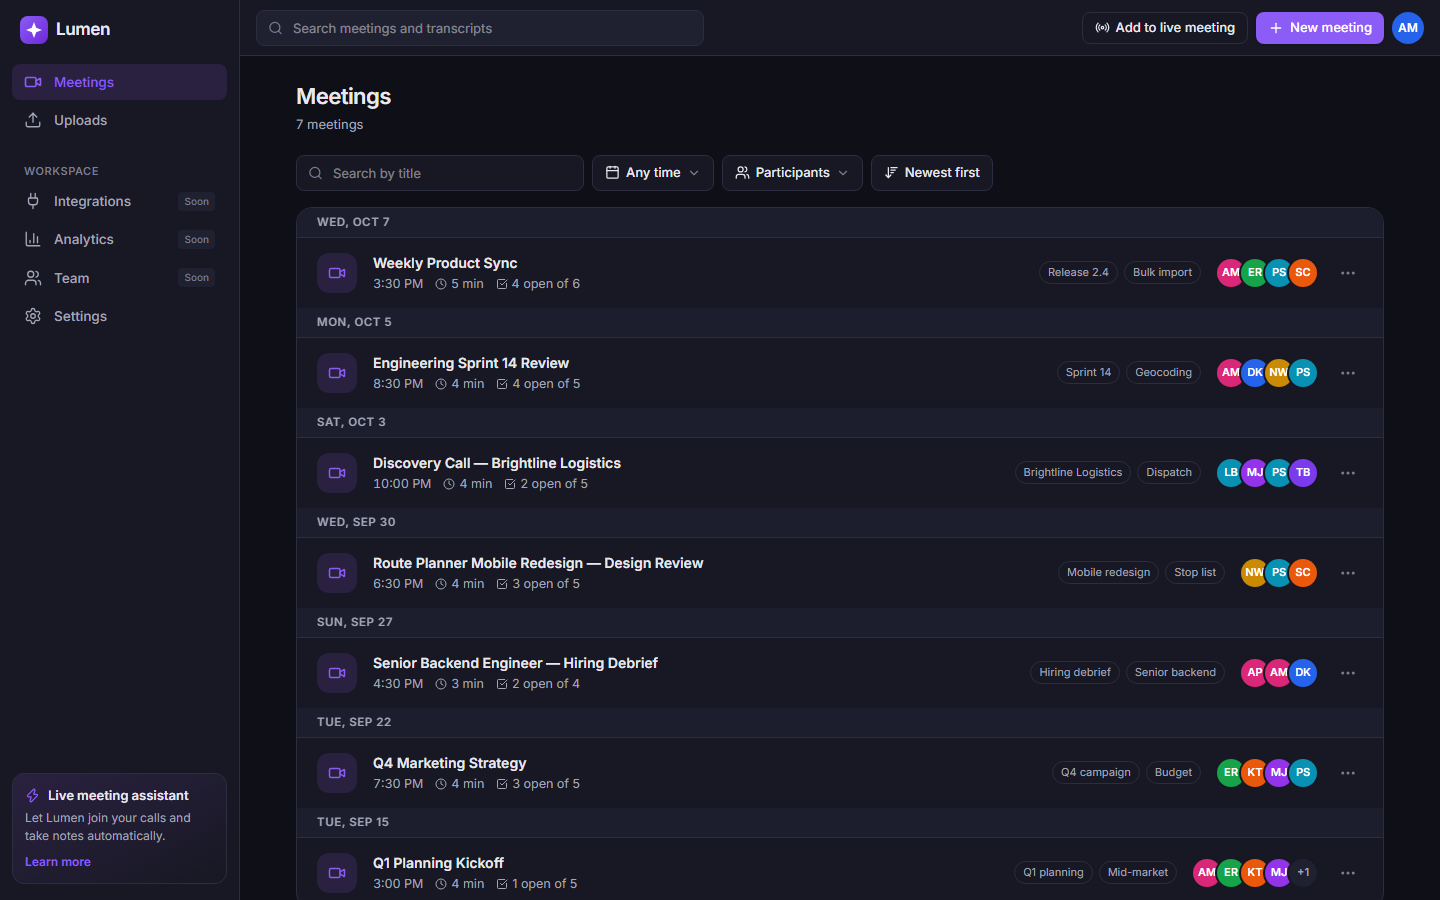
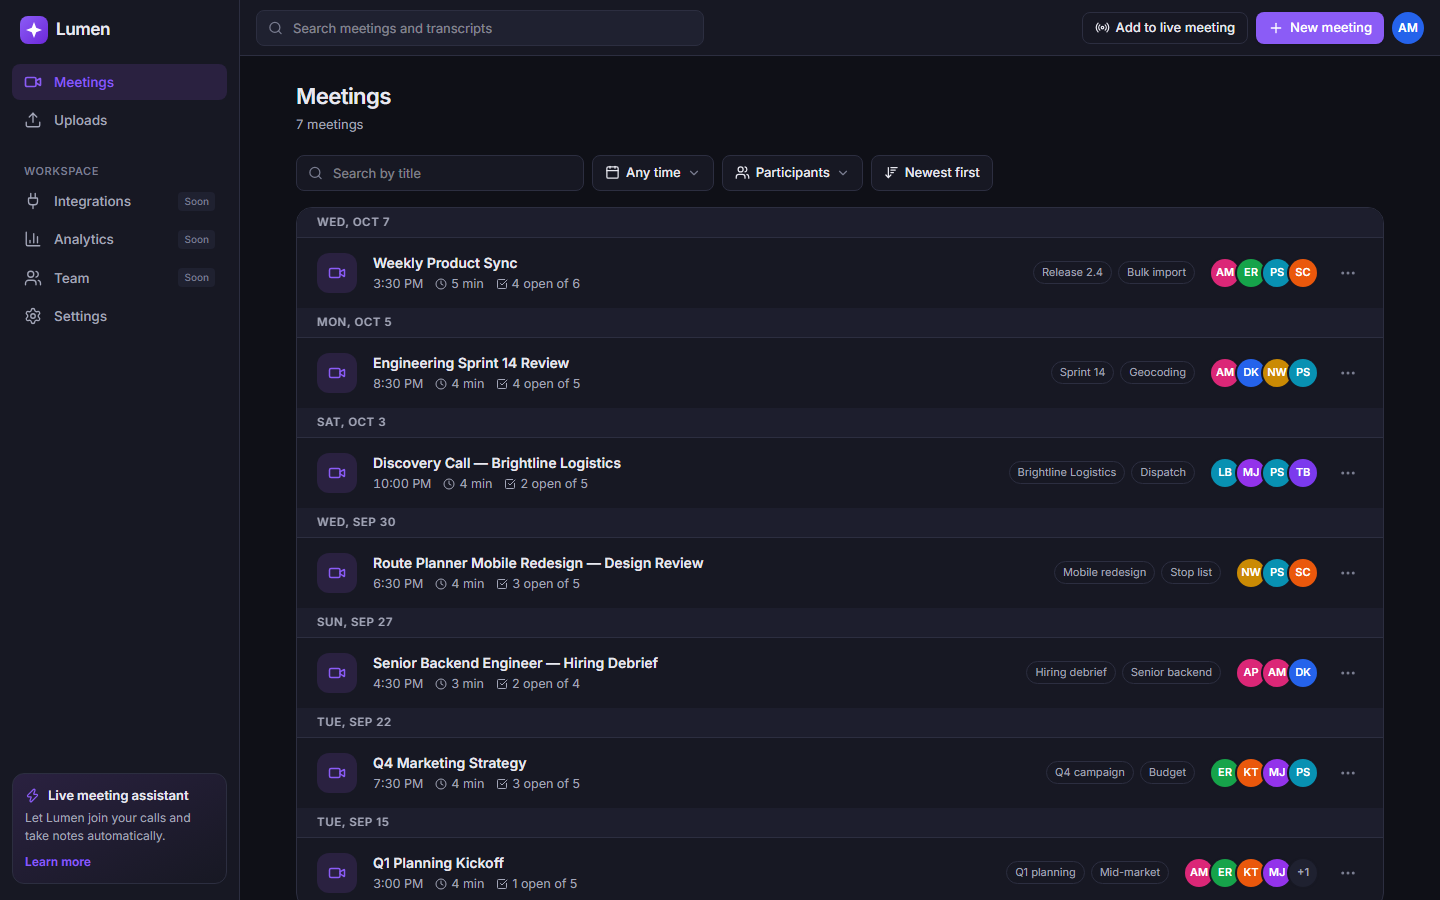
docs: record UI fidelity audit and refresh screenshots
Adds docs/UI_FIDELITY_AUDIT.md (two visual QA passes, findings and
fixes), marks every MUST row VERIFIED with its evidence, and re-captures
the README screenshots from a production build.

diff --git a/docs/UI_FIDELITY_AUDIT.md b/docs/UI_FIDELITY_AUDIT.md
@@ -1,0 +1,62 @@
+# UI Fidelity Audit
+
+How closely the UI follows the Fireflies meeting workspace, checked against screenshots of the running app.
+
+**Reference:**
+- The public Fireflies site and its help-centre articles on the Notepad and meeting summaries (links in
+  [UI_DESIGN_SPEC.md](UI_DESIGN_SPEC.md) §10).
+- Fireflies was used only as a visual and UX reference: no source code, assets or logos were copied, and the product
+  has its own name, "Lumen".
+
+**Method:**
+- A Playwright script captured the same ten screens each pass at 1440×900 and 390×844: library, row hover,
+  workspace while playing, transcript search, meeting menu, new-meeting dialog, settings, empty library, not-found
+  and phone workspace.
+- Pass 2 added dark-mode captures and the expanded-panel views.
+
+## What matches the Fireflies experience
+
+| Area | Fireflies pattern | Here |
+|------|-------------------|------|
+| Navigation | Left sidebar with an active item in the brand colour; a top bar with global search, a live-meeting call-to-action, "New" and an avatar | Same structure. Out-of-scope items are marked "Soon" and open Coming-soon dialogs |
+| Library | Meetings grouped by day; rows with title, time, duration and participant avatars; overflow menu | Day groups, a time · duration · open-tasks line, AI keyword chips, an avatar stack and a ⋯ menu (edit, delete) |
+| Workspace | Notepad: AI notes on one side, transcript on the other, docked player | Notes on the left (keywords → overview → outline → action items by assignee → talk time), transcript on the right, docked player with a speaker timeline and speed control |
+| Transcript | Coloured speaker avatars, name with timestamp, click to play from a line, find-in-transcript | Same, plus an active-line highlight, auto-follow with a "Back to current" button, and a match counter with ↑/↓ |
+| Feedback | Toasts for actions; clear processing state | Toasts for every mutation and failure; "Generating notes…", "Notes ready" and "Failed + Retry" chips |
+| Panels | Notes and transcript can each be focused | Expand / restore button in each panel header (desktop); tabs on phones |
+| Theme | Light and dark | Appearance settings: System / Light / Dark |
+
+## Pass 1: layout and information hierarchy
+
+| # | Finding | Fix |
+|---|---------|-----|
+| 1 | Transcript lines put the timestamp inline before the text, so wrapped lines hung under the speaker name and the time was hard to scan | Speaker name and time now share one row and the text sits below, as in Fireflies. Continuation lines by the same speaker show their time in the left gutter |
+| 2 | Panels could not be expanded (the one open item on the UI checklist) | Desktop focus mode: **Expand notes** / **Expand transcript** / **Show both panels**. Sync, search and seeking keep working while a panel is expanded (E2E) |
+| 3 | Avatar stacks overlapped so far that initials were clipped | Less overlap; the 2 px surface ring is kept |
+| 4 | On phones the meeting header wrapped its date, duration and participant count over several lines | The meta items no longer wrap internally, the participant count shows only from `sm` up (the avatars remain), the Share button is icon-only on phones, and long titles clamp to two lines |
+| 5 | The theme could only be toggled from the account menu, and there was no "System" option | Settings → **Appearance** with System / Light / Dark. System follows OS changes live. The menu toggle stays as a shortcut |
+
+## Pass 2: spacing, typography, controls and states
+
+| # | Finding | Fix |
+|---|---------|-----|
+| 6 | The notes and transcript header bars had slightly different heights, so their bottom borders did not line up | Both are now a fixed `h-14` |
+| 7 | On phones the transcript panel repeated "Transcript" directly under the "Transcript" tab | The panel title is hidden below `lg`; the search box takes the row |
+| 8 | The "System" theme card's hint wrapped onto a third line | Shorter hint ("Follow device") |
+| 9 | Dark mode: checked keyword chips, outline timestamps, status chips, highlights and the expanded notes for contrast | No changes needed. Text tokens meet WCAG AA against their surfaces |
+| 10 | States: empty library ("No meetings match your filters" + Clear filters), not-found meeting, loading skeletons, failed notes with Retry | Reviewed. Each already had a clear next action; no changes |
+
+## Known differences (accepted)
+
+- **No real audio or video.** The player is a simulated clock behind the `PlaybackClock` interface, which the PDF
+  allows. An info tooltip in the player says so.
+- **No Fireflies-only features:** AskFred, soundbites, comments and integrations are out of scope. Bonus B1 and B5
+  were deliberately deferred.
+- **Brand colour and logo are original.** The layout follows Fireflies; the visual identity does not copy it.
+
+## Verification
+
+- E2E tests cover the expanded panels, the theme options (including System following the OS live and the choice
+  surviving a reload), speaker names and timestamps on transcript lines, and phone-width layout
+  with no horizontal scroll.
+- README screenshots were re-captured after pass 2.

diff --git a/docs/BONUS_FEATURES.md b/docs/BONUS_FEATURES.md
@@ -6,7 +6,7 @@ Rule: no bonus work starts until every MUST row in [REQUIREMENTS_MATRIX.md](REQU
 |----------|----|-------|---------------------|------|--------|
 | 1 | B3 | Global search across all meetings | `GET /api/search` (escaped LIKE over titles + transcript lines, grouped per meeting, snippets); top-bar combobox dropdown with highlighted snippets → deep link `/meetings/{id}?t=ms&find=q` that seeks the player and pre-fills transcript search. FTS5 deferred: LIKE is instant at this scale and simpler to explain | `test_search_api.py` (12); E2E `global-search.spec.ts` (2) | ✅ |
 | 2 | B2 | Export transcript / summary (TXT, Markdown) | Generated client-side from data already loaded (pure formatters in `lib/export.ts`, no extra endpoint); Fireflies-like Download dialog in the ⋯ menu with content, format, *timestamps* and *speaker names* options | `lib/export.test.ts` (6); E2E `export.spec.ts` (2, real file downloads) | ✅ |
-| 3 | B6 | Dark mode | Same CSS-variable tokens with dark values under `.dark` on `<html>`; toggle in the account menu; choice stored in localStorage, otherwise follows `prefers-color-scheme`; inline pre-paint script prevents a light flash | `lib/theme.test.ts` (3); E2E `dark-mode.spec.ts` (2) | ✅ |
+| 3 | B6 | Dark mode | Same CSS-variable tokens with dark values under `.dark` on `<html>`; **Settings → Appearance: System / Light / Dark** (System follows `prefers-color-scheme` live); account-menu shortcut; choice in localStorage; inline pre-paint script prevents a light flash | `lib/theme.test.ts` (4); E2E `dark-mode.spec.ts` (3) | ✅ |
 | 4 | B4 | Tags / topics + filtering | AI keywords (`summary_keywords`) are the tags — no duplicate tag tables; `GET /api/meetings?keyword=`; keyword chips on rows and in notes filter the library | `test_filter_by_keyword_tag`; E2E "keyword chips filter by tag" | ✅ |
 | 5 | B1 | Comments / highlights on segments | `segment_comments` table; hover action on transcript line | Integration; E2E | ⏸ |
 | 6 | B5 | Ask-a-question chat | Keyword retrieval over segments → answer with cited timestamps; LLM if key configured | Unit | ⏸ |

diff --git a/README.md b/README.md
@@ -247,7 +247,7 @@ Built only after every MUST-have was verified; details and tests in [docs/BONUS_
 |---|---|
 | Global search across all meetings | Top-bar search; results deep-link to the exact transcript moment |
 | Export (TXT / Markdown) | Meeting ⋯ menu → **Download**: transcript or AI notes, with timestamp/speaker options |
-| Dark mode | Account menu → **Dark mode** (follows the system setting until you choose) |
+| Dark mode | Settings → **Appearance**: System / Light / Dark (System follows the OS live); quick toggle in the account menu |
 | Tags | AI keywords appear as chips on meetings and in notes; clicking one filters the library |
 
 Deferred on purpose: comments on transcript lines and an "Ask" chat (a convincing chat needs a real LLM; see
@@ -285,5 +285,7 @@ Captured from the running application (seeded data).
 | ![Transcript search](docs/screenshots/transcript-search.png) | ![New meeting](docs/screenshots/new-meeting.png) |
 | **Filters (last 30 days, one participant)** | **Phone width** |
 | ![Filters](docs/screenshots/library-filters.png) | ![Mobile](docs/screenshots/mobile.png) |
-| **Dark mode — library** | **Dark mode — global search over the workspace** |
+| **Dark mode — library** | **Dark mode — transcript expanded, searching** |
 | ![Dark library](docs/screenshots/dark-library.png) | ![Dark workspace](docs/screenshots/dark-workspace.png) |
+| **Settings → Appearance (System / Light / Dark)** | |
+| ![Appearance settings](docs/screenshots/settings-appearance.png) | |

diff --git a/docs/UI_DESIGN_SPEC.md b/docs/UI_DESIGN_SPEC.md
@@ -115,7 +115,7 @@ Player bar also shows a **speaker timeline** (coloured blocks per speaker turn) 
 ## 9. Fidelity checklist (reviewed against screenshots, Milestone K)
 - [x] Left sidebar with active item highlighted in the accent colour
 - [x] Library rows (not a bare table): title, date · duration, participant avatar stack, status chip, row menu
-- [ ] Two-panel notepad, independently scrolling ✅ — *each panel expandable: not implemented* (low value; the mobile tabs cover narrow screens)
+- [x] Two-panel notepad, independently scrolling, each expandable (desktop focus mode; tabs on phones)
 - [x] Notes sections in Fireflies order; sparkle "AI" labels
 - [x] Transcript lines: coloured avatar, speaker name, timestamp, hover "play from here"
 - [x] Docked player bar with speed menu and speaker timeline
